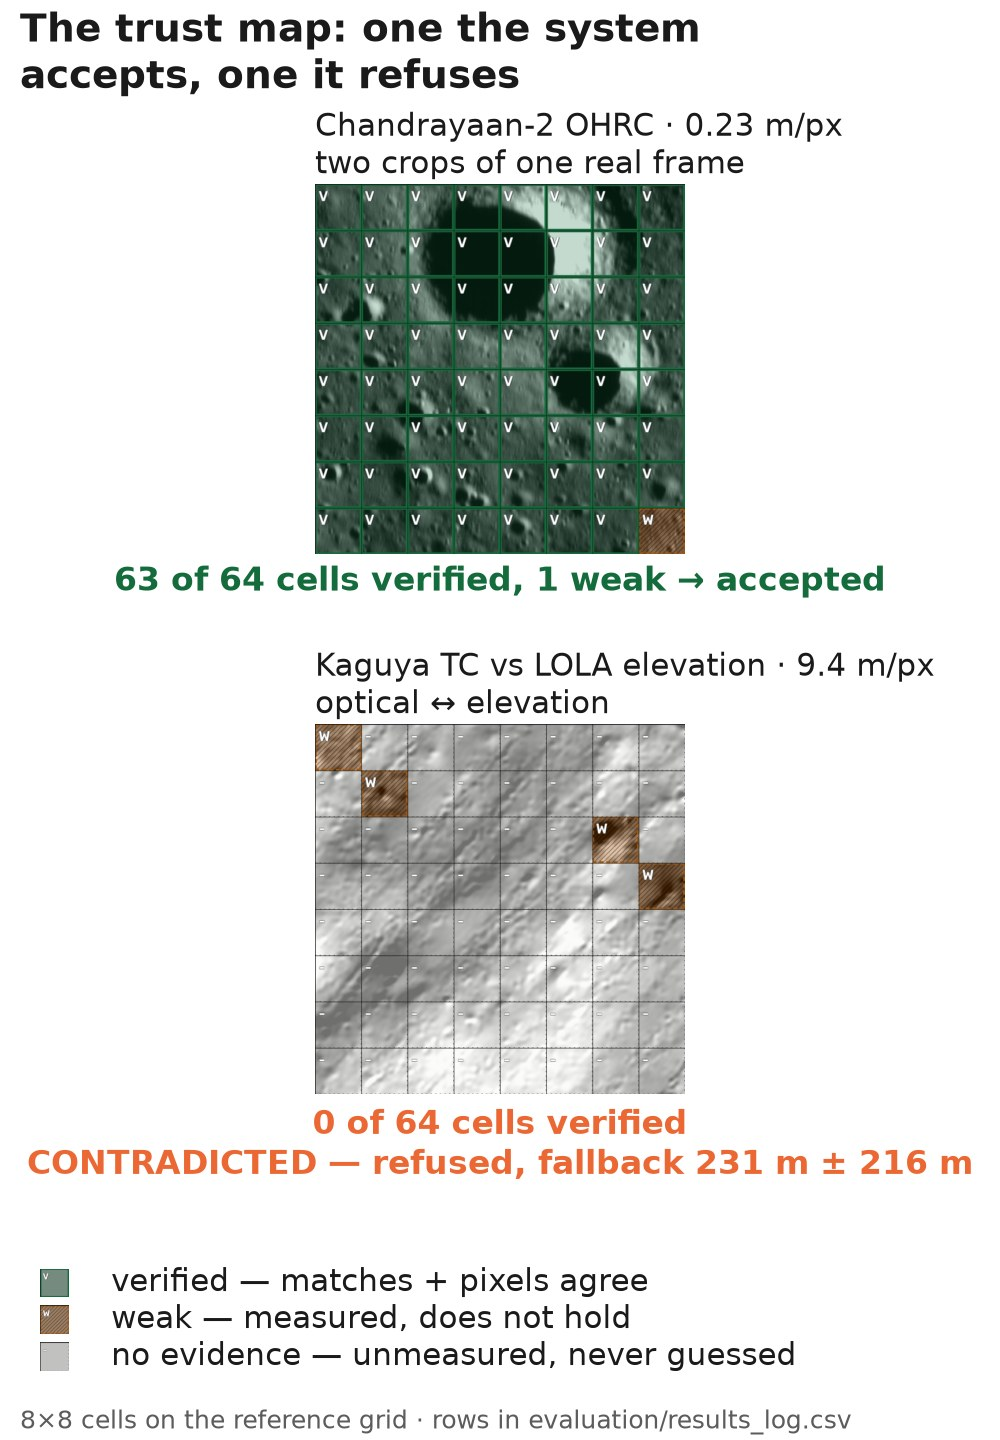
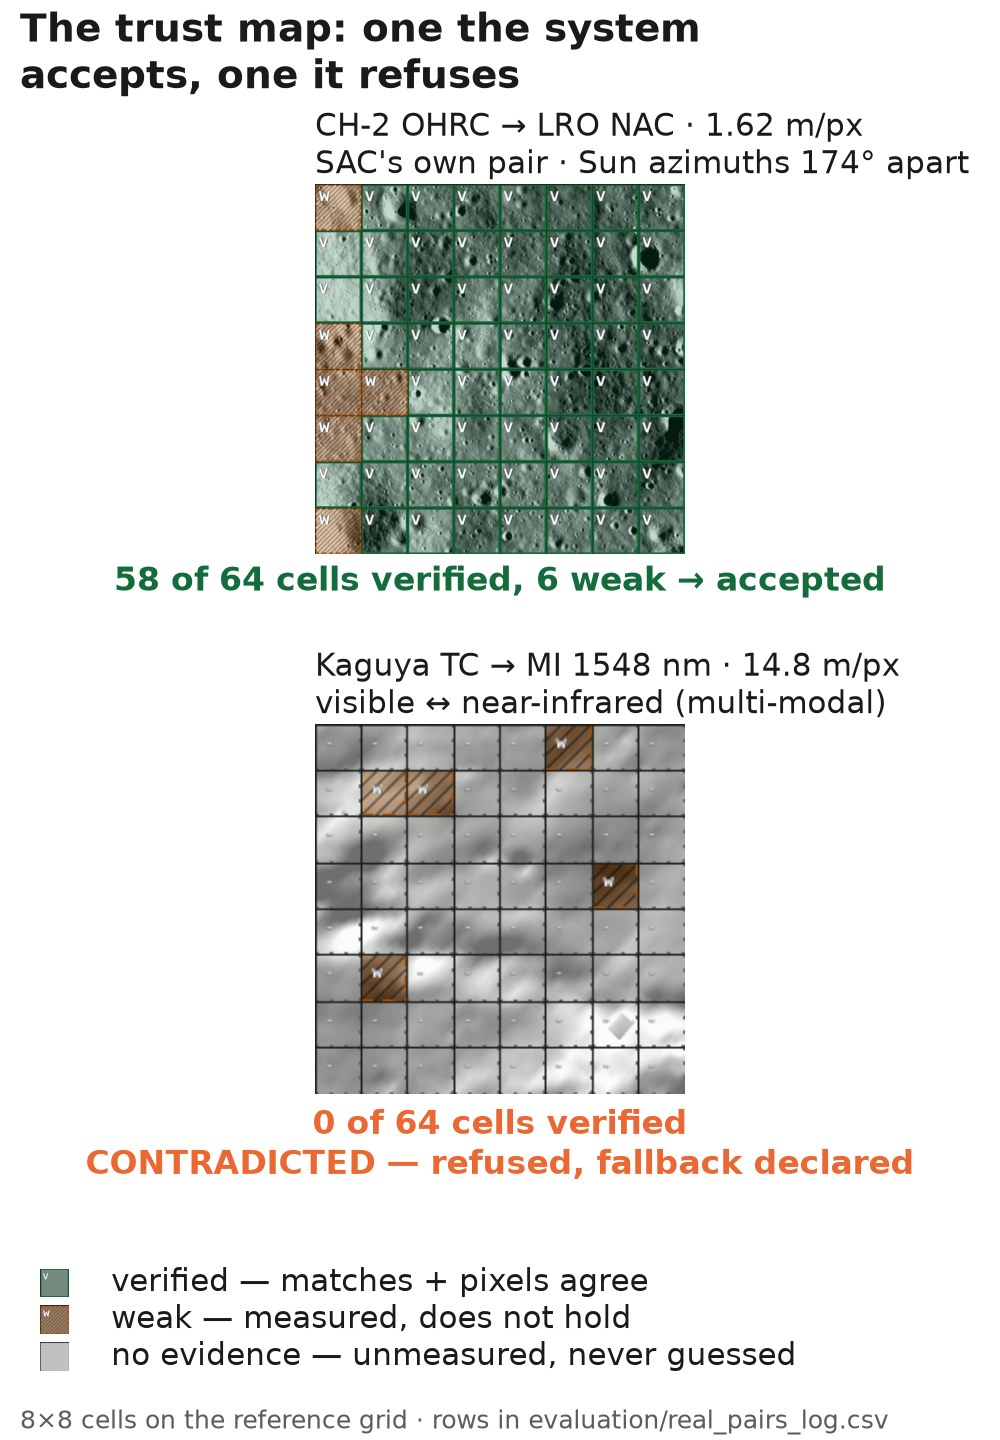
fig3 on real pairs (SAC's OHRC->NAC accepted, TC->MI 1548 nm refused; labels from geometry_prior); fig6 names both NAC grids and counts distinct windows; freeze re-caches fig3's pairs and drops the duplicate calibration window

diff --git a/presentation/make_figures.py b/presentation/make_figures.py
@@ -424,29 +424,47 @@ def _reference_image(result: dict, pair: str) -> np.ndarray:
     return img
 
 
-def fig_trust_map():
-    """Two real pairs through the SAME code path: one the system accepts, one it refuses.
+# fig3's two pairs (19 Sep, national round). ops.freeze re-caches exactly these before drawing.
+FIG3_PAIRS = ("sac_ohrc_nac_w06", "site_tc_morning_mi1548_w01")
+# Short enough for a 3.4 in panel title at 11 pt (measured: the long names ran off the canvas).
+_SHORT = {"Chandrayaan-2 OHRC": "CH-2 OHRC", "LRO LROC NAC": "LRO NAC",
+          "SELENE (Kaguya) Terrain Camera": "Kaguya TC", "SELENE (Kaguya) Multiband Imager": "MI"}
 
-    Left: pair_01 - two overlapping 640x640 crops of one real Chandrayaan-2 OHRC frame,
-    known offset, zero sun difference. NOT a validation tier (its PROVENANCE.md says so);
-    it is here because it is a real OHRC picture and the map is genuinely almost all
-    verified. Right: pair_04_tierD_native - a Kaguya TC photograph against a LOLA
-    elevation hillshade rendered on the Kaguya grid: the one multi-modal pair we own,
-    where the matcher's homography is contradicted by the pixels and the system says so.
-    Every count and every metre on this figure is read from the cached result dict.
+
+def _panel_label(pair: str) -> tuple[str, str]:
+    """(instruments and reference grid, what differs) from the pair's own geometry_prior.json."""
+    import json
+    g = json.loads((ROOT / "data" / "pairs" / pair / "geometry_prior.json").read_text(encoding="utf-8"))
+    s, r = g["source"], g["reference"]
+    ref = _SHORT.get(r["instrument"], r["instrument"])
+    if r.get("band"):
+        ref += " " + r["band"].split(" (")[0]
+    what = f"{_SHORT.get(s['instrument'], s['instrument'])} → {ref} · {r['resampled_gsd_mpp']:.3g} m/px"
+    if g.get("benchmark"):
+        how = f"SAC's own pair · Sun azimuths {g['d_sun_azimuth_deg']:.0f}° apart"
+    elif "infrared" in (r.get("band") or ""):
+        how = "visible ↔ near-infrared (multi-modal)"
+    else:
+        how = g.get("terminology", "")
+    return what, how
+
+
+def fig_trust_map():
+    """Two REAL pairs through the SAME code path: one the system accepts, one it refuses.
+
+    Top: sac_ohrc_nac_w06 - Chandrayaan-2 OHRC against LRO NAC M1350459544RE, a window of the
+    pair SAC's own paper benchmarks (arXiv:2509.04775 Table 1), Sun azimuths ~174 deg apart.
+    Bottom: site_tc_morning_mi1548_w01 - Kaguya TC (visible) against Kaguya MI at 1548 nm:
+    learned matching fails, the pixels contradict the homography, the system refuses it and
+    declares the fallback. Until 19 Sep this figure showed pair_01 (two crops of ONE OHRC
+    frame, not a validation tier) and a Tier D pair. Every count on it is read from the cached
+    result dict, and matches the pair's row in evaluation/real_pairs_log.csv.
     """
     # STACKED, not side by side. Slide 2 answers four template pointers, so its text needs
     # width; a wide two-panel figure left the column 5% too narrow whatever was trimmed.
     # Stacked, the same two panels occupy 3.6 in instead of 5.5 in and are TALLER, so they
     # read at least as well - and the text column gains 1.4 in.
-    panels = [
-        ("pair_01",
-         "Chandrayaan-2 OHRC · 0.23 m/px",
-         "two crops of one real frame"),
-        ("pair_04_tierD_native",
-         "Kaguya TC vs LOLA elevation · 9.4 m/px",
-         "optical ↔ elevation"),
-    ]
+    panels = [(p, *_panel_label(p)) for p in FIG3_PAIRS]
     fig = plt.figure(figsize=(5.0, 7.2))
     # top leaves room for a TWO-LINE suptitle plus the first panel's own two-line title;
     # at 0.925 the suptitle printed straight through "Chandrayaan-2 OHRC · 0.23 m/px".
@@ -466,14 +484,13 @@ def fig_trust_map():
         ax.set_title(f"{what}\n{how}", fontsize=11, loc="left", pad=4, color=INK)
         counts, n_cells = rel["counts"], int(rel["n_cells"])
         if r["declared"]["contradicted"]:
-            fb = r["fallback"] or {}
             # "0 of 64 verified" is the OUTPUT; the verdict comes from the cells the area
             # check could score. An arrow between them implied a causality that does not
             # hold, and the slide text names the other denominator - so state the count,
-            # then the verdict, rather than deriving one from the other.
+            # then the verdict, rather than deriving one from the other. The fallback's
+            # metres are not printed: no log row carries them.
             verdict = (f"{counts['verified']} of {n_cells} cells verified\n"
-                       f"CONTRADICTED — refused, fallback "
-                       f"{fb['shift_m']:.0f} m ± {fb['spread_m']:.0f} m")
+                       f"CONTRADICTED — refused, fallback declared")
             colour = ORANGE
         else:
             verdict = (f"{counts['verified']} of {n_cells} cells verified, "
@@ -500,7 +517,7 @@ def fig_trust_map():
         leg.text(0.095, 2.5 - i, f"{head} — {gloss}", fontsize=11, va="center",
                  color=INK)                                               # data units
     fig.text(0.02, 0.008, "8×8 cells on the reference grid · rows in "
-             "evaluation/results_log.csv", fontsize=9, color=MUTED)
+             "evaluation/real_pairs_log.csv", fontsize=9, color=MUTED)
     fig.suptitle("The trust map: one the system\naccepts, one it refuses",
                  x=0.02, ha="left", fontsize=14, fontweight="bold", y=0.995,
                  va="top", linespacing=1.2)
@@ -692,6 +709,19 @@ def fig_real_sun_sweep():
     return out
 
 
+def _distinct_windows(pair_ids) -> dict:
+    """{ground window: [pair ids]}, a window being (source, reference, centre, size) from each
+    pair's geometry_prior.json. Known issue 2: some windows were cut twice under two ids."""
+    import json
+    out = {}
+    for pid in sorted(pair_ids):
+        g = json.loads((ROOT / "data" / "pairs" / pid / "geometry_prior.json").read_text(encoding="utf-8"))
+        key = (g["source"]["product_id"], g["reference"]["product_id"],
+               round(g["window_centre_map_m"][0]), round(g["window_centre_map_m"][1]), round(g["window_m"]))
+        out.setdefault(key, []).append(pid)
+    return out
+
+
 def fig_trust_real():
     """Planted confident-wrong registrations on real windows: how often does the area check
     contradict them, by displacement? d = 0 is the false-alarm rate."""
@@ -701,7 +731,9 @@ def fig_trust_real():
     ds = sorted({float(r["displacement_m"]) for r in rows})
     rate = [np.mean([r["contradicted"] == "True" for r in rows if float(r["displacement_m"]) == d]) for d in ds]
     n = [sum(1 for r in rows if float(r["displacement_m"]) == d) for d in ds]
-    gsd = np.median([float(r["gsd_ref_m"]) for r in rows])
+    # Every reference grid, not the median: 11 windows are on the 0.931 m NAC grid and 12 on
+    # the 1.245 m one, and the 18 Sep label named only 1.245 (claim-checker, 19 Sep).
+    grids = sorted({float(r["gsd_ref_m"]) for r in rows})
     fig, ax = plt.subplots(figsize=(7.6, 4.4))
     ax.grid(True, which="major", color=GRID, linewidth=0.8, zorder=0)
     ax.set_axisbelow(True)
@@ -712,14 +744,19 @@ def fig_trust_real():
     ax.set_xticks(xs)
     ax.set_xticklabels([f"{d:g}" for d in ds], fontsize=13)
     ax.set_ylim(0, 112)
-    ax.set_xlabel("planted error  (metres; reference grid ~%.2f m/px)" % gsd, fontsize=14)
+    ax.set_xlabel("planted error  (metres; reference grids " + " and ".join(f"{g:.2f}" for g in grids)
+                  + " m/px)", fontsize=14)
     ax.set_ylabel("flagged as wrong  (%)", fontsize=14)
     ax.set_title("Planted wrong answers: how many are flagged?",
                  loc="left", fontweight="bold", fontsize=15, pad=10)
-    n_win = len({r["pair_id"] for r in rows})
-    fig.text(0.014, 0.006, f"{n_win} real OHRC/NAC windows · all planted matches agree with the "
-             f"wrong answer · 0 m = false-alarm rate", fontsize=9.5, color=MUTED)
-    fig.tight_layout(rect=(0, 0.045, 1, 1))
+    ids = {r["pair_id"] for r in rows}
+    n_win, n_ground = len(ids), len(_distinct_windows(ids))
+    wins = f"{n_win} real windows" + (f" ({n_ground} distinct)" if n_ground != n_win else "")
+    fig.text(0.014, 0.008, f"{wins}, OHRC→NAC and NAC→NAC · 0 m = false-alarm rate\n"
+             f"all planted matches agree with the wrong answer", fontsize=9.5, color=MUTED,
+             linespacing=1.35, va="bottom")
+    fig.set_figheight(4.7)
+    fig.tight_layout(rect=(0, 0.085, 1, 1))
     out = OUT / "fig6_trust_real_calibration.png"
     _audit(fig, out.name)
     fig.savefig(out, dpi=200)

diff --git a/ops/freeze.py b/ops/freeze.py
@@ -262,7 +262,13 @@ class Freeze:
             wins = sorted({r["pair_id"] for r in _rows(TRUST_CSV)})
             if not wins:
                 print("   no trust_real_calibration.csv to take the windows from")
-                return False
+                return None
+            # one id per GROUND window: w01_t and w04 of M1153871873LE are the same window cut
+            # twice (Known issue 2), which counted its 74 trials twice
+            from presentation.make_figures import _distinct_windows
+            dup = [ids[1:] for ids in _distinct_windows(wins).values() if len(ids) > 1]
+            wins = [w for w in wins if not any(w in d for d in dup)]
+            self.state["trust_windows_dropped_as_duplicates"] = [w for d in dup for w in d]
             self.state["trust_windows"] = wins
             self.save()
         if TRUST_CSV.exists():
@@ -297,6 +303,9 @@ class Freeze:
         return a in (0, 1) and b == 0
 
     def report(self, logf):
+        from presentation.make_figures import FIG3_PAIRS    # fig3 draws cached run_all dicts
+        if _run(["-m", "ops.precompute_demo_cache", *FIG3_PAIRS], logf) != 0:
+            return False
         a = _run(["-m", "ops.make_report"], logf)
         b = _run(["-m", "presentation.make_figures"], logf)
         c = _run(["-m", "presentation.build_deck"], logf)    # 1 while [TBD]s remain

diff --git a/presentation/DECK_V2_DRAFT.md b/presentation/DECK_V2_DRAFT.md
@@ -80,10 +80,10 @@
 
 | Slide | Figure | Built from |
 |---|---|---|
-| 2 | `fig3_trust_map.jpg` | college-round demo cache. **Open:** a real-data version (OHRC→NAC accepted beside TC→MI refused). Its "accepted" example (`pair_01`) is two crops of one OHRC frame |
+| 2 | `fig3_trust_map.jpg` | real pairs since 19 Sep: `sac_ohrc_nac_w06` (SAC's pair, accepted) above `site_tc_morning_mi1548_w01` (1548 nm, refused), from `demo_cache/results/` - `ops.freeze` re-caches both before drawing; counts match their real_pairs_log rows |
 | 3 | `fig4_pipeline.png` | `core/pipeline.py` order (refinement before MAGSAC++, fixed 19 Sep) |
 | 4 | `fig5_real_sun_sweep.png` | `real_pairs_log.csv` outcome rows (rule v2) |
-| 5 | `fig6_trust_real_calibration.png` | `trust_real_calibration.csv`. Re-run at the freeze, deleting the file first (Known issue 8: every run appends to it). Its axis label uses one grid (1.245 m); 11 of the windows are on 0.931 m |
+| 5 | `fig6_trust_real_calibration.png` | `trust_real_calibration.csv`, re-run at the freeze (file deleted first; the duplicate window `w01_t` = `w04` dropped, so 22 windows). Axis names both grids (0.93 and 1.25 m) |
 | backup | `fig7_miloi_sun.png` | `miloi_log.csv` |
 
 ## Q&A traps this deck invites (answers must come from REPORT.md)
